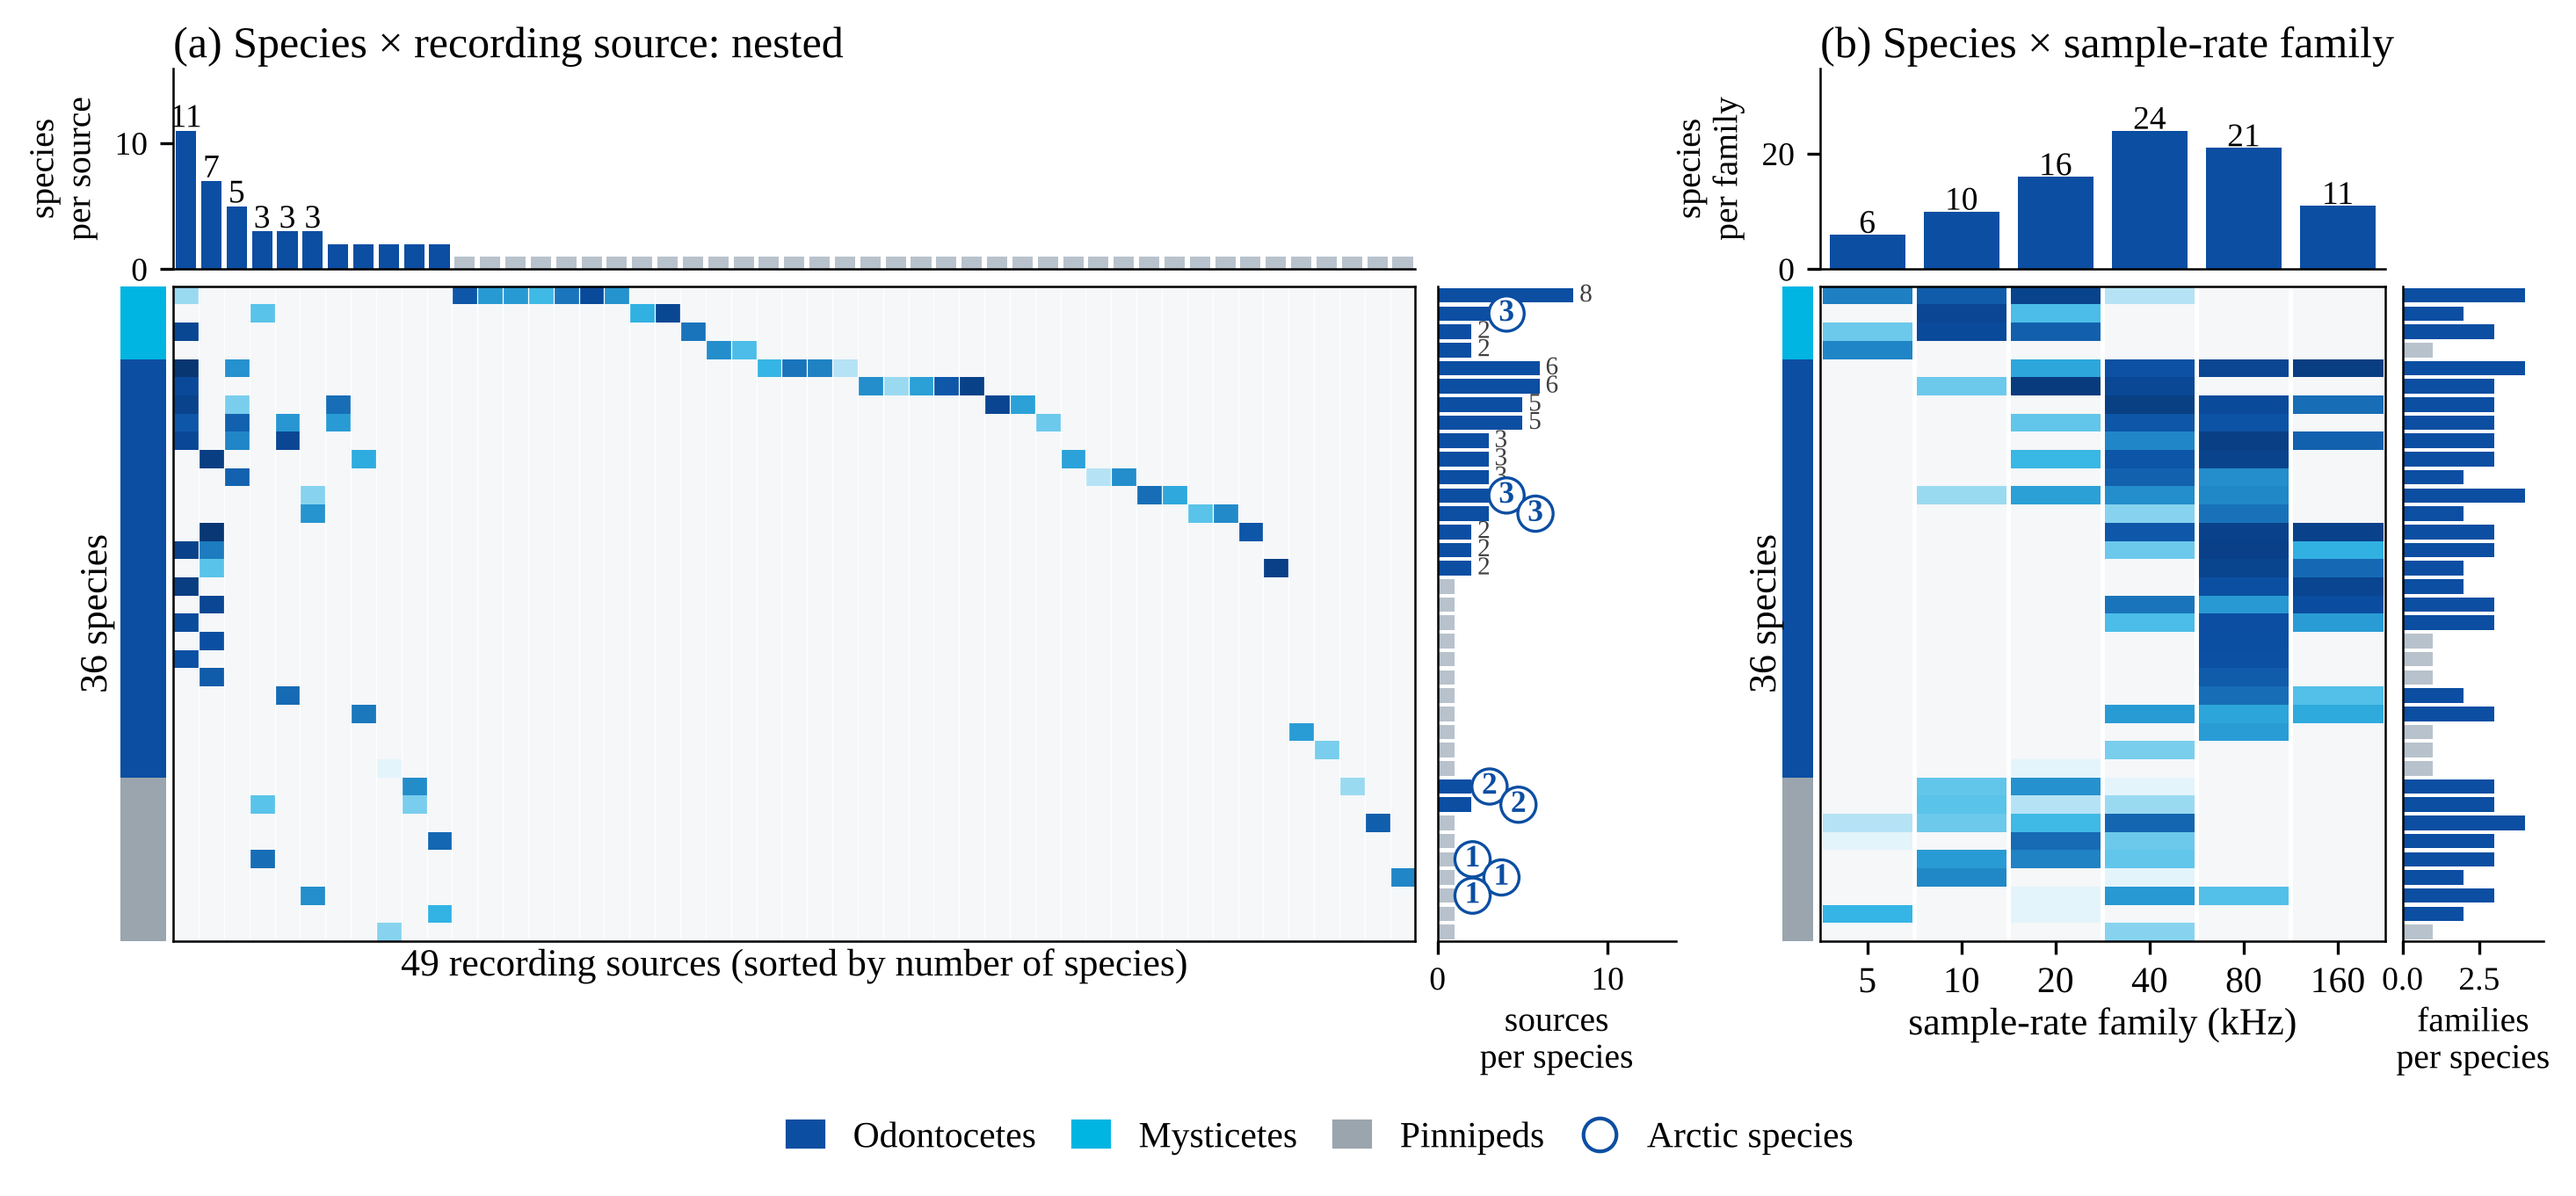
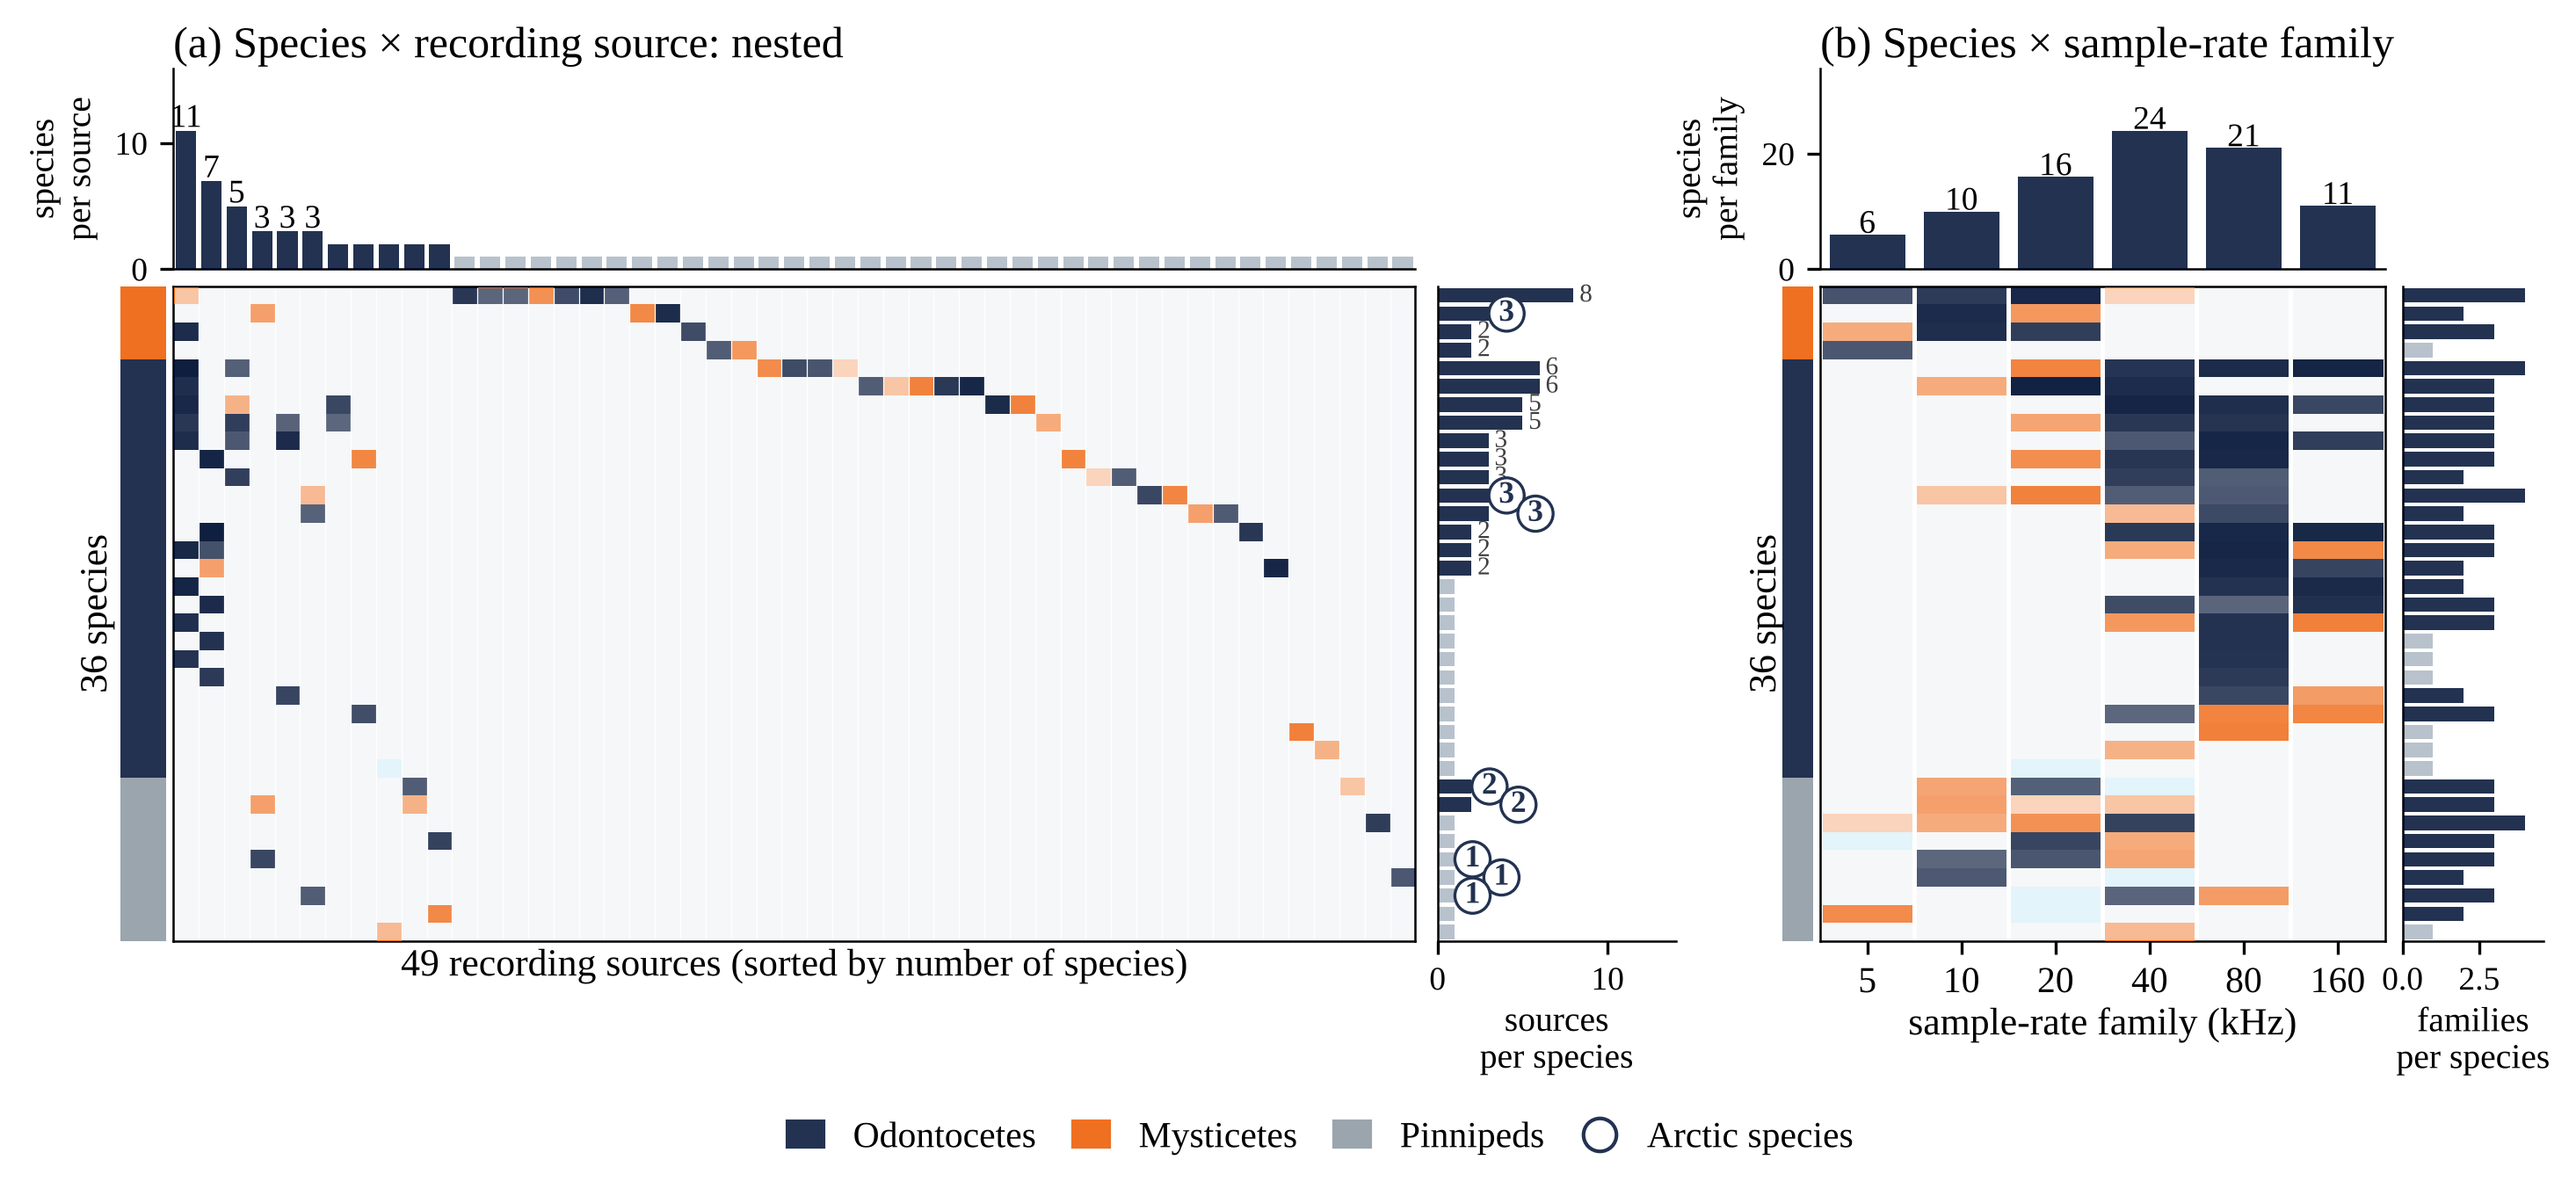
docs: unify figure palette and show key figures inline

diff --git a/README.md b/README.md
@@ -21,6 +21,9 @@ Watkins Marine Mammal Sound Database에 공개 AI 레퍼런스 표현(AST · VGG
 | impulsive 판별 단일 특징, 미학습 출처 | out-of-fold BA **0.867** | 물리량 하나로 신호 유형 구분 가능 (탐색적) |
 | 종 10개, 무작위 → 출처 분리 | BA 0.64–0.76 → **0.21–0.33** (기준선 0.24) | 종 단위 성능의 상당 부분은 녹음 조건에 의존 → 평가 설계 우선 |
 
+<p align="center"><img src="docs/figures/balanced_accuracy_by_split.png" width="85%" alt="Balanced accuracy by representation for species, call type and taxon, random clip split versus recording-source split"></p>
+<p align="center"><sub>표현별 균형정확도: 빈 원 = 클립 무작위 분할, 채운 원 = 녹음 출처 분리(95% CI), 점선 = 메타데이터 기준선</sub></p>
+
 ## 상세 결과
 
 ### 고정 표현 레퍼런스 비교
@@ -54,8 +57,8 @@ Watkins Marine Mammal Sound Database에 공개 AI 레퍼런스 표현(AST · VGG
 <p align="center"><img src="docs/figures/ast_finetune.png" width="95%" alt="AST partial fine-tuning: per-taxon recall gains and losses, with lower overall balanced accuracy"></p>
 <p align="center"><sub>출처 분리 5-fold: 고래류 재현율 상승, 기각류 재현율 및 전체 균형정확도 하락</sub></p>
 
-<p align="center"><img src="docs/figures/balanced_accuracy_by_split.png" width="85%" alt="Balanced accuracy by representation for species, call type and taxon, random clip split versus recording-source split"></p>
-<p align="center"><sub>표현별 균형정확도: 빈 원 = 클립 무작위 분할, 채운 원 = 녹음 출처 분리(95% CI), 점선 = 메타데이터 기준선</sub></p>
+<details>
+<summary><b>그림 더 보기</b> — UMAP · 신호 유형 · 데이터 구조 · 기각류 출처별 재현율</summary>
 
 <p align="center"><img src="docs/figures/umap_generalisation.png" width="95%" alt="UMAP maps of VGGish embeddings coloured by species"></p>
 <p align="center"><sub>VGGish UMAP의 종 일치도 0.83, 미학습 출처 투영 시 0.16 (종 라벨을 활용한 시각화 진단)</sub></p>
@@ -65,6 +68,11 @@ Watkins Marine Mammal Sound Database에 공개 AI 레퍼런스 표현(AST · VGG
 
 <p align="center"><img src="docs/figures/data_structure.png" width="90%" alt="Species by recording source and species by sample-rate family"></p>
 <p align="center"><sub>데이터 구조: 종이 녹음 출처와 샘플레이트 계열에 묶여 있음(nested)</sub></p>
+
+<p align="center"><img src="docs/figures/ast_finetune_pinniped.png" width="95%" alt="AST fine-tuning pinniped recall by recording source"></p>
+<p align="center"><sub>기각류 재현율의 출처별 분해: 6개 출처 중 5개에서 하락</sub></p>
+
+</details>
 
 ### 분석별 결과 요약
 
